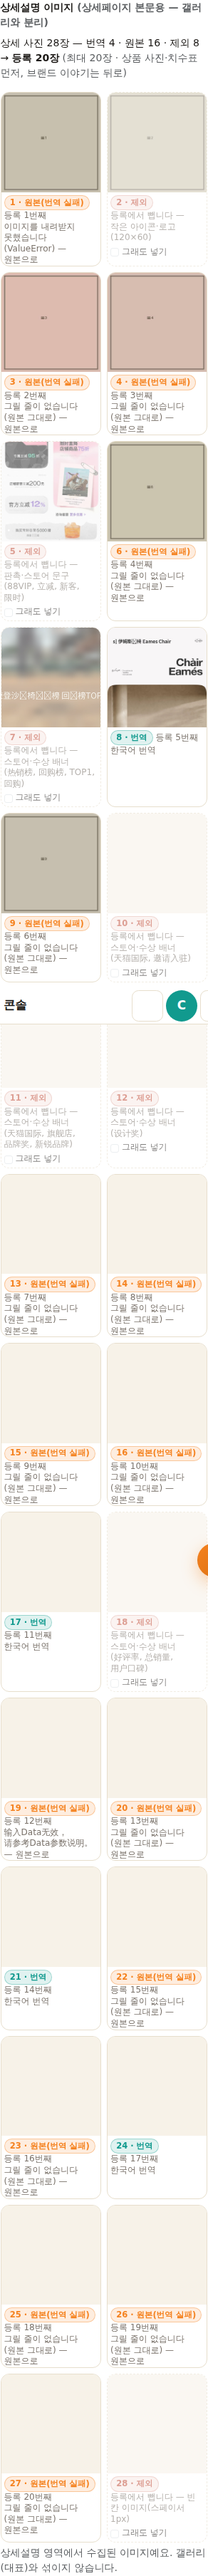
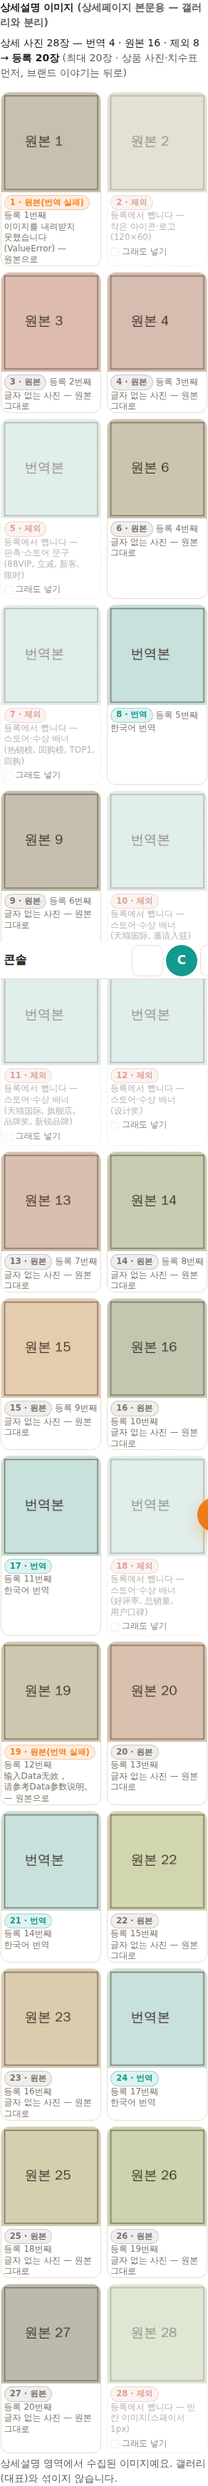
Y9: 글자 없는 사진(옛 D3 「그릴 줄 없음」)은 원본 · 텐센트 재전송은 번역본·실패만(26→6장) · 판촉 배너는 안 보냄 · 「그래도 넣기」면 그 장 번역 접수 · 캡처
Claude-Session: https://claude.ai/code/session_01PxGVkp5f6YphwkqMwzi5ZE

diff --git a/tests/test_y9_detail_images.py b/tests/test_y9_detail_images.py
@@ -165,9 +165,44 @@ def test_1_stored_d3_results_are_requeued_for_tencent(monkeypatch):
     ex["images"] = [f"https://img.alicdn.com/g{i}.jpg" for i in range(5)]
     n = A.enqueue_after_enrich("u", "4ebaf1b8", "https://detail.tmall.com/item.htm?id=1", ex)
     jobs = [(r["kind"], r["idx"]) for r in q._MEM_Q if r["item_id"] == "4ebaf1b8"]
-    detail = sorted(i for k, i in jobs if k == "detail")
-    assert detail == [i for i in range(28) if i not in (1, 27)]                  # 26장(아이콘·스페이서 빼고 — 옛 D3 결과 포함)
-    assert n == 26 + 5
+    detail = sorted(i + 1 for k, i in jobs if k == "detail")
+    # 텐센트로 다시 가는 상세 = 6장: 옛 D3 번역본(글자만 지움) 8·17·21·24 + 실패 1(내려받기)·19(입력 무효)
+    #   안 보냄: 아이콘·스페이서(2·28) · 판촉·스토어 배너로 읽힌 장(5·7·10·11·12·18) · 「그릴 줄 없음」 14장(글자 없는 사진 — 다시 보내도 같은 답)
+    assert detail == [1, 8, 17, 19, 21, 24]
+    assert n == 6 + 5
+    q.reset_for_tests()
+
+
+def test_3_old_d3_no_text_record_is_original_not_failure():
+    """옛 D3 기록 「그릴 줄이 없습니다(원본 그대로)」는 실패가 아니다 — 글자 없는 사진, 원본으로 쓴다(카드·등록 모두)."""
+    from src.services import detail_image_plan as P
+    rows = {r["no"]: r for r in P.table(_ex())}
+    assert rows[3]["use"] == "original" and rows[3]["reason"] == "글자 없는 사진 — 원본 그대로"
+    assert [r["no"] for r in rows.values() if r["use"] == "failed"] == [1, 19]     # 진짜 실패만
+
+
+def test_4_include_anyway_queues_that_detail_page(monkeypatch):
+    """판촉 배너라 번역을 안 보냈던 장 — 「그래도 넣기」면 번역 줄에 들어간다(그 장만)."""
+    from src.db import image_translate_queue_pg as q
+    from src.services import image_translate_auto as A
+    from src.services import image_translate_tencent as tc
+    from src.seller_console import collect_history_store as S
+    from src.order_webhook import app
+    q.reset_for_tests()
+    monkeypatch.delenv("IMAGE_TRANSLATE_D3", raising=False)
+    monkeypatch.setattr(tc, "is_configured", lambda: True)
+    monkeypatch.setattr(A, "kick", lambda: None)
+    ex = _ex()
+    iid = S.append(source="extension", url="https://detail.tmall.com/item.htm?id=4", seller_id="y9-inc", title="x",
+                   price="1", currency="CNY", extra=ex)
+    iid = iid[0] if isinstance(iid, tuple) else iid
+    c = app.test_client()
+    with c.session_transaction() as s:
+        s["user_id"] = "y9-inc"
+    d = c.post(f"/seller/collect/{iid}/image-promo", json={"kind": "detail", "idx": 4, "include": True}).get_json()
+    assert d["ok"] and d["queued"] >= 1
+    sent = sorted(i + 1 for r in q._MEM_Q if r["item_id"] == iid for i in [r["idx"]] if r["kind"] == "detail")
+    assert 5 in sent and not ({7, 10, 11, 12, 18} & set(sent))                    # 켠 5번만 — 다른 배너는 여전히 안 보냄
     q.reset_for_tests()
 
 

diff --git a/src/services/image_translate_auto.py b/src/services/image_translate_auto.py
@@ -226,14 +226,21 @@ def enqueue_after_enrich(user_id: str, item_id: str, url: str, extra: dict) -> i
     except Exception:
         return 0
     from src.services import detail_image_plan as _dip
-    done, redo = set(), []
+    done, redo, cut_text = set(), [], set()
+    from src.db.image_translate_queue_pg import is_no_text
     for key, kind in (("images_ko", "gallery"), ("detail_images_ko", "detail")):
         for e in (extra.get(key) or []):
             if not isinstance(e, dict):
                 continue
             i = int(e.get("idx", -1))
+            if kind == "detail" and not e.get("promo_include") and _dip.text_exclusion(_dip.entry_text(e)):
+                cut_text.add(i)                   # Y9: 이미 읽은 글자가 판촉·스토어 배너 — 등록에서 빠지니 번역도 안 보낸다(「그래도 넣기」면 다시)
+                continue
             if e.get("vendor") == "d3" and not d3_enabled():
-                redo.append((kind, i))            # Y9: 옛 D3 결과(한국어 없이 글자만 지움 · 그릴 줄 없음) → 텐센트 본선으로 다시
+                if is_no_text(str(e.get("error_message") or e.get("reason") or "")):
+                    done.add((kind, i))           # 「그릴 줄 없음」 = 글자 없는 사진 — 다시 보내도 같은 답(원본 그대로)
+                else:
+                    redo.append((kind, i))        # Y9: 옛 D3 결과(한국어 없이 글자만 지움 · 실패) → 텐센트 본선으로 다시
             elif e.get("status") in ("done", "skipped", "excluded"):
                 done.add((kind, i))
     pages, over, cut = [], 0, 0
@@ -243,13 +250,13 @@ def enqueue_after_enrich(user_id: str, item_id: str, url: str, extra: dict) -> i
             if i >= cap:
                 over += 1                       # Z3-2: 건당 상한 넘는 장은 원본 그대로(보내지 않는다)
                 continue
-            if kind == "detail" and _dip.url_exclusion(_dip.fix_url(u)):
+            if kind == "detail" and (_dip.url_exclusion(_dip.fix_url(u)) or i in cut_text):
                 cut += 1                        # Y9: 스페이서·작은 아이콘 — 보내지 않는다(등록에서도 빠진다)
                 continue
             if (kind, i) not in done:
                 pages.append((kind, i))
     if over or cut:
-        logger.info("[이미지번역·자동] item=%s 건당 상한 넘는 %d장 원본 유지 · 주소로 뺀 %d장(스페이서·아이콘) 안 보냄", item_id, over, cut)
+        logger.info("[이미지번역·자동] item=%s 건당 상한 넘는 %d장 원본 유지 · 등록에서 빠질 %d장(스페이서·아이콘·판촉 배너) 안 보냄", item_id, over, cut)
     n = _q().enqueue(user_id, item_id, pages) if pages else 0
     want_redo = [p for p in redo if p in set(pages)]
     if want_redo:

diff --git a/src/seller_console/views.py b/src/seller_console/views.py
@@ -14849,8 +14849,16 @@ def collect_image_promo(item_id: str):
     if not collect_history_store.update(item_id, seller_ids=_seller_identities(),
                                         extra_json=json.dumps(extra, ensure_ascii=False)):
         return jsonify({"ok": False, "error": "저장하지 못했습니다."}), 500
+    queued = 0
+    if kind == "detail" and data.get("include"):
+        # Y9: 판촉·배너라 번역을 안 보냈던 상세 장 — 「그래도 넣기」면 이제 넣으니 번역 줄에(이미 번역된 장은 다시 안 보낸다)
+        try:
+            from src.services import image_translate_auto as _ita
+            queued = _ita.enqueue_after_enrich(_seller_id(), item_id, str(item.get("url") or ""), extra)
+        except Exception as exc:                                  # noqa: BLE001
+            logger.warning("[Y9 그래도 넣기] 번역 접수 실패 item=%s: %s", item_id, exc)
     return jsonify({"ok": True, "kind": kind, "plan": store.effective_plan(extra, kind=kind),
-                    "summary": store.effective_summary(extra)})
+                    "summary": store.effective_summary(extra), "queued": queued})
 
 
 @bp.post("/collect/<item_id>/translate-images")

diff --git a/src/services/detail_image_plan.py b/src/services/detail_image_plan.py
@@ -121,6 +121,10 @@ def verdict(e: dict, orig_url: str) -> Dict[str, str]:
         return {"use": "translated", "reason": "한국어 번역" + (" · 그래도 넣기" if why else ""), "section": sec}
     if st == "skipped":
         return {"use": "original", "reason": str(e.get("reason") or "글자 없는 사진 — 원본 그대로"), "section": sec}
+    # 옛 D3 기록: 실패로 적혔지만 사유가 「그릴 줄 없음(글자 없는 사진)」 — 실패가 아니라 원본 그대로 쓰는 장(Y9 ③)
+    from src.db.image_translate_queue_pg import is_no_text
+    if st in ("failed", "error") and is_no_text(str(e.get("error_message") or e.get("reason") or "")):
+        return {"use": "original", "reason": "글자 없는 사진 — 원본 그대로", "section": sec}
     if st in ("queued", "running", ""):
         return {"use": "pending" if st else "original", "reason": "번역 대기" if st else "아직 번역 안 함 — 원본", "section": sec}
     return {"use": "failed", "reason": str(e.get("error_message") or e.get("error_class") or "실패")[:120] + " — 원본으로",
